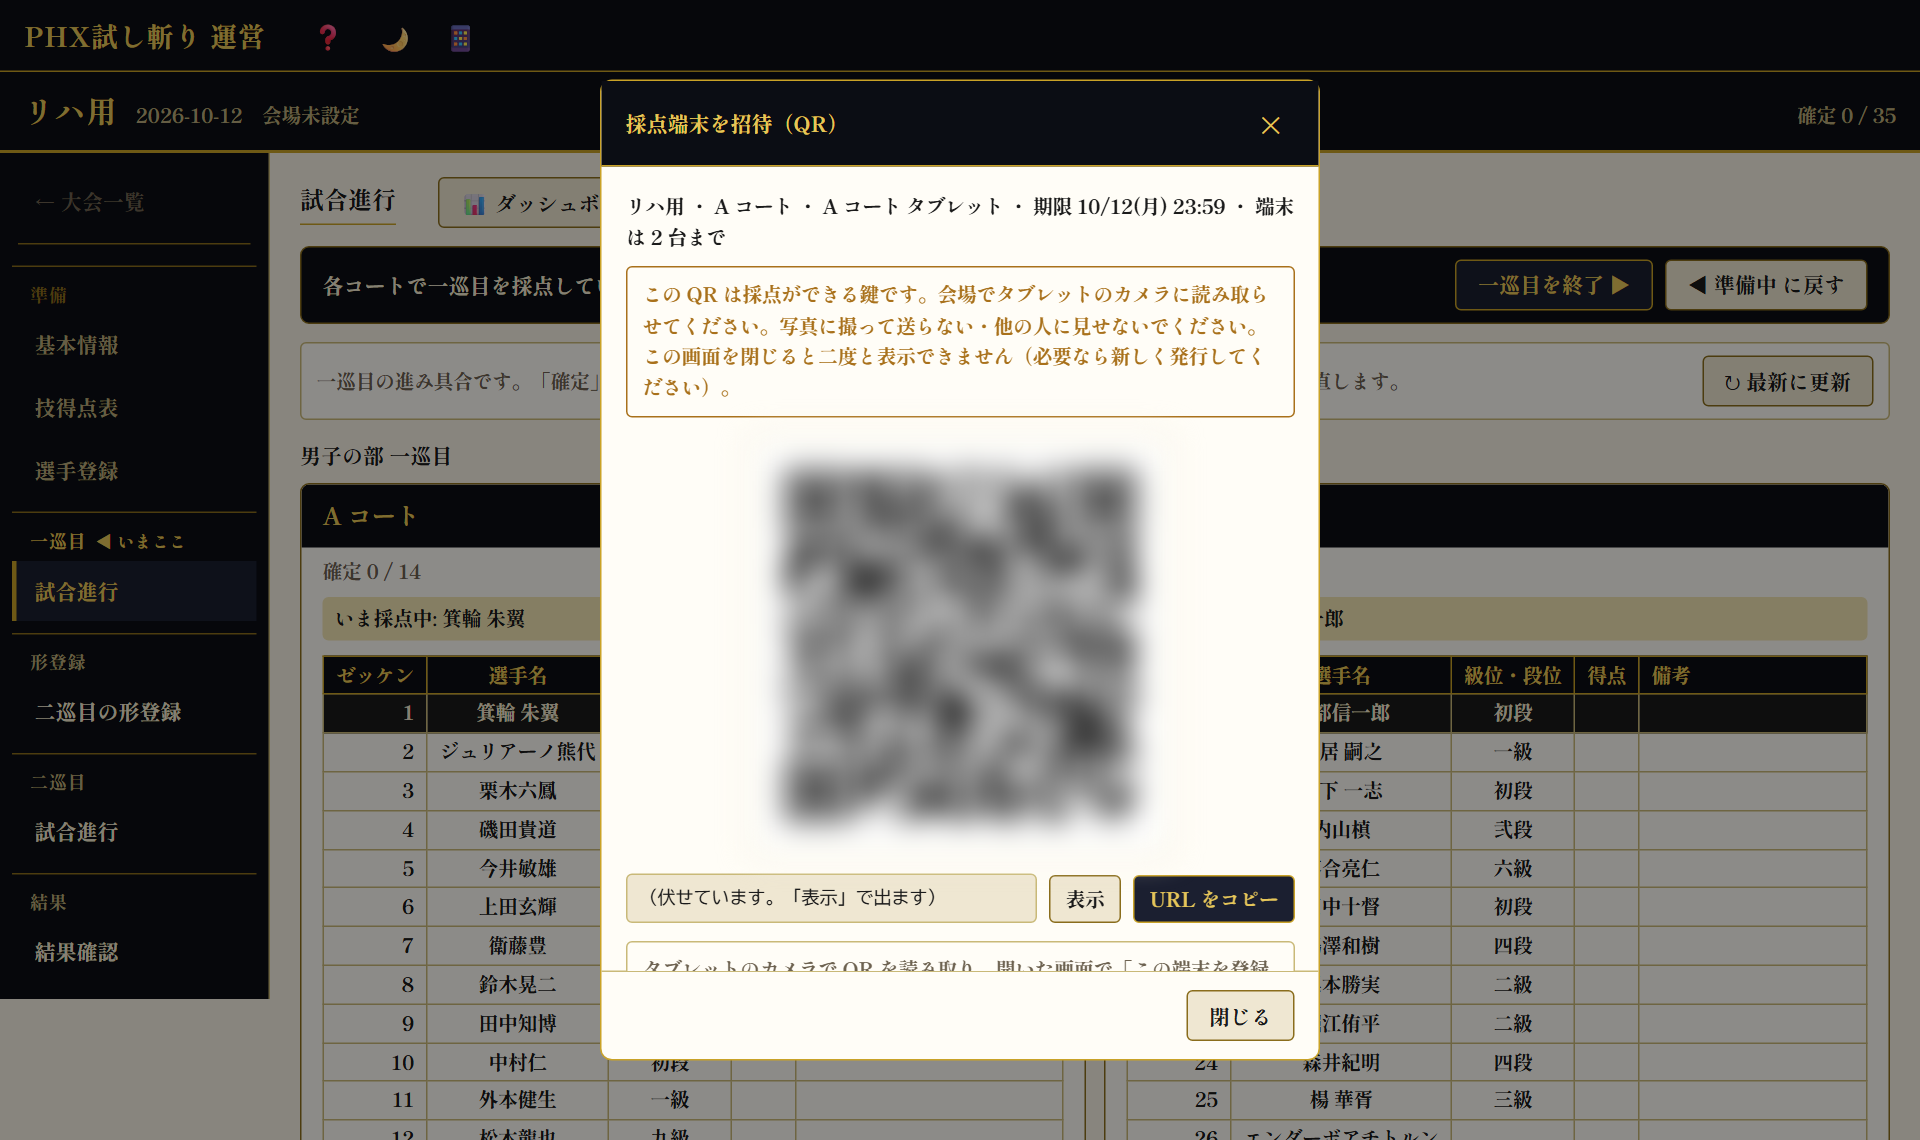
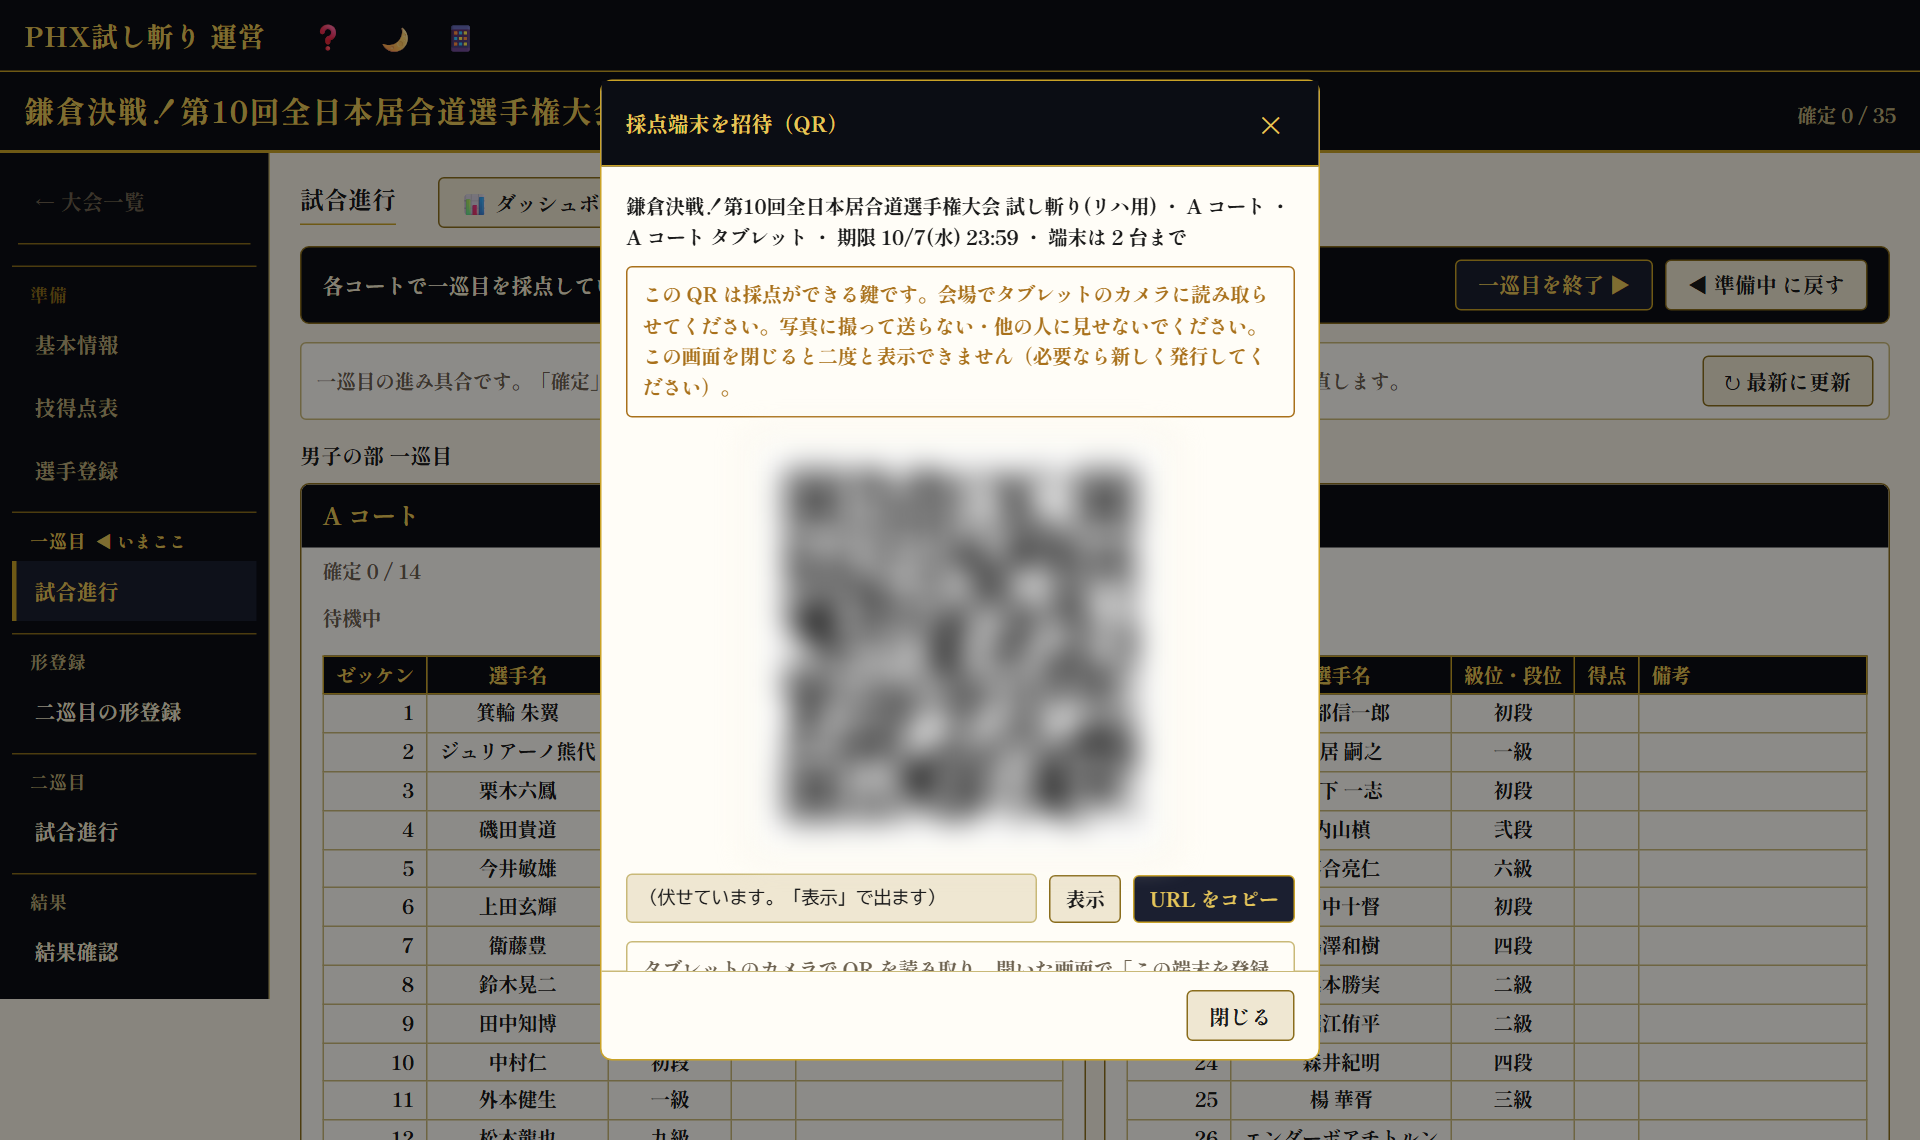
docs(memo): 手順メモの写真を撮り直し（同一 URL の連続撮影で QR ダイアログが写り込んでいた件、大会一覧は実機の写真、大会名を揃える）

diff --git a/docs/memo/2026-10-07-rehearsal-steps.html b/docs/memo/2026-10-07-rehearsal-steps.html
@@ -33,7 +33,7 @@
 <body>
 <main>
   <h1>大会運営 手順メモ（リハ用）</h1>
-  <p class="lead">PC 運営画面（desk.html）での当日の流れを、画面写真つきでまとめました。写真の <span class="mark">赤い枠</span> が押す場所です。写真はリハーサル用の名簿で撮ったものです。</p>
+  <p class="lead">PC 運営画面（desk.html）での当日の流れを、画面写真つきでまとめました。写真の <span class="mark">赤い枠</span> が押す場所です。写真はリハーサル用の名簿で撮ったものです（得点は撮影用の仮の値です）。</p>
 
   <div class="flow">
     <span>大会を選ぶ</span><span>順番を整える</span><span class="on">試合開始</span><span>採点係の登録</span><span>配信・ダッシュボード</span><span class="on">一巡目終了</span><span>二巡目の形登録</span><span class="on">二巡目開始</span><span>ベスト4候補</span><span class="on">二巡目終了</span><span>ベスト4</span><span>表彰</span>
@@ -43,9 +43,9 @@
 
   <div class="step"><div class="num">1</div><div>
     <h3>大会一覧から「リハ用」を選ぶ</h3>
-    <p>トップ画面の <span class="ui">▶ 作成済みの大会</span> を開き、一覧から <b>リハ用</b> を押します。運営画面が開きます。</p>
+    <p>トップ画面の <span class="ui">▶ 作成済みの大会</span> を開き、一覧から <b>鎌倉決戦！第10回全日本居合道選手権大会 試し斬り(リハ用)</b> を押します。運営画面が開きます。</p>
   </div></div>
-  <figure><img src="img/01-home.png" alt="大会一覧でリハ用を選ぶ"><figcaption>大会一覧。リハ用の行を押すと運営画面が開きます。</figcaption></figure>
+  <figure><img src="img/01-home.png" alt="大会一覧でリハ用を選ぶ"><figcaption>大会一覧。「…試し斬り(リハ用)」の行を押すと運営画面が開きます。</figcaption></figure>
 
   <div class="step"><div class="num">2</div><div>
     <h3>順番の並べ替えはドラッグでできます</h3>
